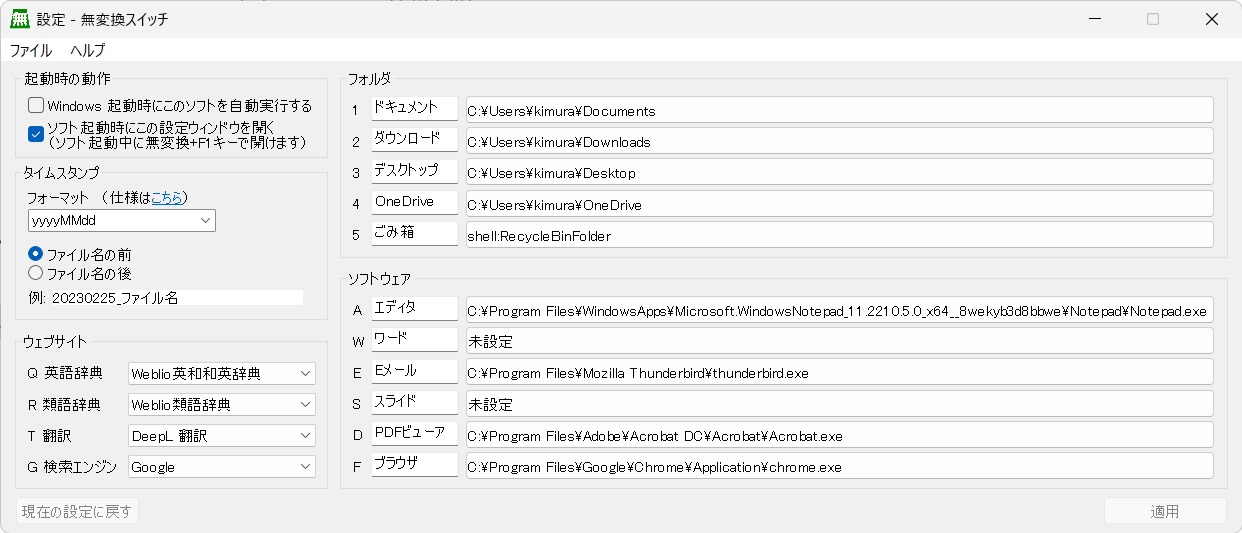
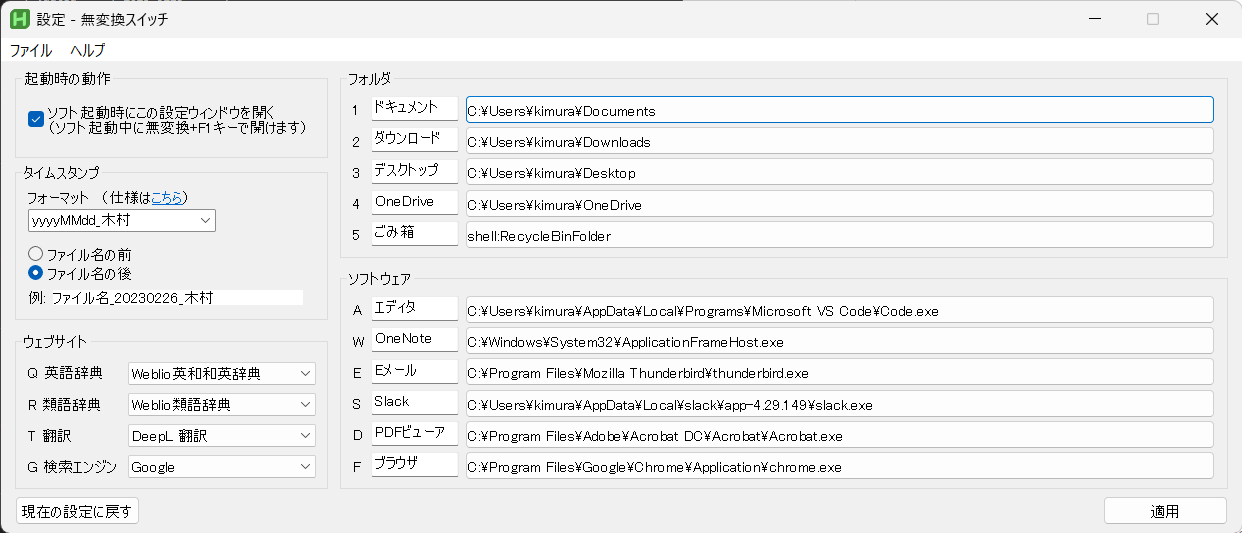
DEL autostart checkbox

diff --git a/README.html b/README.html
@@ -365,33 +365,25 @@ code {
           : 'default'
     });
   </script>
-<h1 id="muhenkan-switch">muhenkan-switch</h1>
+<h1 id="%E7%84%A1%E5%A4%89%E6%8F%9B%E3%82%B9%E3%82%A4%E3%83%83%E3%83%81">無変換スイッチ</h1>
 <p><code>無変換キー</code>と他のキーを同時押しすることで様々な動作ができるようになります。
 <code>無変換キー</code>単体は<code>無変換キー</code>として効きます。
 現状の機能を消すことなく、覚えやすさを重視してキーボードショートカットを配置しました。</p>
 <h2 id="%E3%82%A4%E3%83%B3%E3%82%B9%E3%83%88%E3%83%BC%E3%83%AB">インストール</h2>
 <ol>
-<li>GitHub のリリースからzip ファイルをダウンロード</li>
-<li>ユーザの書き込み権限があるところに展開<br>
-(例えばC:\Users\ユーザ名以下であればお好みのフォルダの中に入れられます。入れては行けない場所としてはC:\Program Files など。)</li>
-<li>muhenkan.exe を実行</li>
+<li><a href="https://github.com/kimushun1101/muhenkan-switch/releases">GitHub のリリース</a>から<code>muhenkan-switch.zip</code> をダウンロード。</li>
+<li>ユーザの書き込み権限があるところに展開。<br>
+(例えば<code>C:\Users\ユーザ名</code> 以下であればお好みのフォルダの中に入れられます。入れては行けない場所としては<code>C:\Program Files</code> 以下など。)</li>
+<li><code>muhenkan.exe</code> を実行。設定画面を閉じた後もソフトバックグラウンドで実行され続けます。終了は<a href="#%E8%A8%AD%E5%AE%9A%E5%A4%89%E6%9B%B4">設定画面</a>から可能です。</li>
 </ol>
-<h2 id="%E3%81%A7%E3%81%8D%E3%82%8B%E3%81%93%E3%81%A8">できること</h2>
+<h2 id="%E4%BD%BF%E3%81%84%E6%96%B9">使い方</h2>
+<p>初期設定は以下の通りです。</p>
 <p><img src="img/keyboard.png" alt="キーボードショートカット"></p>
 <ul>
-<li>(緑)<code>無変換キー</code>+<code>F1キー</code> : <a href="#%E8%A8%AD%E5%AE%9A%E5%A4%89%E6%9B%B4">設定の変更</a> を行うウィンドウを表示</li>
-<li>(青)<code>無変換キー</code>+<code>右手</code>（両手がホームポジションにあることを想定）
-<ul>
-<li><code>H</code>, <code>J</code>, <code>K</code>, <code>L</code>: 1文字カーソル移動</li>
-<li><code>U</code>, <code>I</code>: 単語で左右カーソル移動</li>
-<li><code>Y</code>, <code>O</code>: Home、End カーソル移動</li>
-<li><code>N</code>, <code>M</code>, <code>;</code> BackSpace, Delete, Esc</li>
-<li><code>,</code>, <code>.</code> カンマピリオドで句読点(、, 。) を入力（IMEで<code>．</code>と<code>，</code>にセットしている人は助かるかも）</li>
-</ul>
-</li>
 <li><code>無変換キー</code>+<code>左手</code>（右手はマウスを操作していることを想定）
 <ul>
-<li>(黄)数字キー→エクスプローラーでフォルダを開く <em><strong><a href="#%E8%A8%AD%E5%AE%9A%E5%A4%89%E6%9B%B4">【設定変更可能】</a></strong></em>
+<li>(緑) <code>F1</code>: <a href="#%E8%A8%AD%E5%AE%9A%E5%A4%89%E6%9B%B4">設定の変更</a> を行うウィンドウを表示</li>
+<li>(黄) 数字キー→エクスプローラーでフォルダを開く
 <ul>
 <li><code>1</code>: ドキュメント</li>
 <li><code>2</code>: ダウンロード</li>
@@ -400,7 +392,7 @@ code {
 <li><code>5</code>: ごみ箱</li>
 </ul>
 </li>
-<li>(橙)左手上段→選択文字列を検索 <em><strong><a href="#%E8%A8%AD%E5%AE%9A%E5%A4%89%E6%9B%B4">【サイトは変更可能】</a></strong></em>
+<li>(橙) 左手上段→選択文字列を検索
 <ul>
 <li><code>Q</code>: 英単語検索</li>
 <li><code>R</code>: 類語辞典</li>
@@ -408,7 +400,7 @@ code {
 <li><code>G</code>: Web 検索</li>
 </ul>
 </li>
-<li>(赤)左手中段→ソフトを最前面に出す <em><strong><a href="#%E8%A8%AD%E5%AE%9A%E5%A4%89%E6%9B%B4">【設定変更可能】</a></strong></em>
+<li>(赤) 左手中段→ソフトを最前面に出す
 <ul>
 <li><code>A</code>: エディタ</li>
 <li><code>W</code>: ワード</li>
@@ -418,7 +410,7 @@ code {
 <li><code>F</code>: ブラウザ</li>
 </ul>
 </li>
-<li>(紫)左手下段→ファイルの操作
+<li>(紫) 左手下段→ファイルの操作
 <ul>
 <li><code>V</code>: ファイル名に最後に編集した日付のタイムスタンプを貼り付け</li>
 <li><code>C</code>: コピーして、新しくできたファイルの名前に最後に編集した日付のタイムスタンプ貼り付け</li>
@@ -427,17 +419,26 @@ code {
 </li>
 </ul>
 </li>
+<li>(青) <code>無変換キー</code>+<code>右手</code>（両手がホームポジションにあることを想定）
+<ul>
+<li><code>H</code>, <code>J</code>, <code>K</code>, <code>L</code>: 1文字カーソル移動</li>
+<li><code>U</code>, <code>I</code>: 単語で左右カーソル移動</li>
+<li><code>Y</code>, <code>O</code>: Home、End カーソル移動</li>
+<li><code>N</code>, <code>M</code>, <code>;</code> BackSpace, Delete, Esc</li>
+<li><code>,</code>, <code>.</code> カンマピリオドで句読点(、, 。) を入力（IMEで<code>．</code>と<code>，</code>にセットしている人は助かるかも）</li>
+</ul>
+</li>
 <li>上記のルールから外れるもの
 <ul>
 <li><code>Ctrl</code> + <code>Shift</code> + <code>V</code> : 書式なしで貼り付け（エディタソフトは除く）</li>
-<li>下表に示すタイピング後にEnter やSpace キーを押すとその文字が置換される</li>
+<li>下表に示す文字列入力後にEnter やSpace キーなどを押すとその文字が置換されます。</li>
 </ul>
 </li>
 </ul>
 <table>
 <thead>
 <tr>
-<th>タイピング</th>
+<th>入力文字列</th>
 <th>置換入力例</th>
 </tr>
 </thead>
@@ -478,9 +479,6 @@ code {
 <p><img src="img/activeapp.gif" alt="ソフトの切り替え"></p>
 <h2 id="%E3%82%AD%E3%83%BC%E3%81%AE%E8%A6%9A%E3%81%88%E6%96%B9">キーの覚え方</h2>
 <ul>
-<li>カーソル移動=<code>HJKL</code> はVim 準拠</li>
-<li>カーソル移動=<code>YUIO</code> はキーの位置と横移動の大きさを関連付けています。</li>
-<li>文字消去=<code>NM</code> は両方とも人差し指で操作する。位置関係はカーソルが動く方向に対応しています。</li>
 <li>Web サイトやソフトはおおよそ推測できる割当になっているかと思います。例外としては以下のとおりです。
 <ul>
 <li>英単語=<code>Q</code> はQuestion から連想します。</li>
@@ -489,13 +487,13 @@ code {
 </ul>
 </li>
 <li>タイムスタンプの操作=<code>XCV</code> は、切り取り、コピー、ペーストなどを連想して覚えてください。</li>
+<li>カーソル移動=<code>HJKL</code> はVim 準拠</li>
+<li>カーソル移動=<code>YUIO</code> はキーの位置と横移動の大きさを関連付けています。</li>
+<li>文字消去=<code>NM</code> は両方とも人差し指で操作する。位置関係はカーソルが動く方向に対応しています。</li>
 </ul>
 <h2 id="%E8%A8%AD%E5%AE%9A%E5%A4%89%E6%9B%B4">設定変更</h2>
 <p><img src="img/config.png" alt="設定画面"></p>
-<ol>
-<li><code>muhenkan.exe</code> を実行する。</li>
-<li><code>無変換キー</code>+<code>F1</code> で設定画面が開き、設定の確認と変更ができる。</li>
-</ol>
+<p><code>無変換キー</code>+<code>F1</code> で設定画面が開き、設定の確認と変更ができる。</p>
 <ul>
 <li>起動時の動作：チェックボックスにチェックを入れていると有効になります。</li>
 <li>タイムスタンプ：フォーマットと位置を編集できます。</li>
@@ -504,21 +502,18 @@ code {
 <li>ソフトウェア：テキストボックスは好みに合わせて変更可能です。ソフトをクリックすると、現在起動中のソフトの一覧がでて、そこから変更したいソフトを選ぶことができます。</li>
 <li>適用：現在表示している内容に設定を変更します。上記を変更しただけでは設定の反映はされません。</li>
 <li>現在の設定に戻す：設定画面上の変更をリセットして現在の設定項目に直します。</li>
-<li>メニューバーのファイル：バックアップの作成と読み込み、初期設定へ戻すことができます。またこのソフトの終了もここから行えます。設定画面を閉じただけでは、ソフトは終了されません。</li>
+<li>メニューバーのファイル：バックアップの作成と読み込み、初期設定へ戻すことができます。また、このソフトの終了もここから行えます。</li>
 <li>メニューバーのヘルプ：この説明を見ることができます。また、このソフトの最新版がリリースされているか確認できます。</li>
 </ul>
 <h2 id="%E3%82%A2%E3%83%B3%E3%82%A4%E3%82%B9%E3%83%88%E3%83%BC%E3%83%AB">アンイストール</h2>
 <ol>
-<li><code>無変換キー</code>+<code>F1 キー</code> から「Windows 起動時にこのソフトを自動実行する」のチェックを外す。</li>
-<li><code>無変換キー</code>+<code>F1 キー</code> のツールバーのファイル、終了からソフトを終了する。</li>
-<li>ダウンロードしたzip ファイルとそれを展開したフォルダを削除。</li>
+<li><code>無変換キー</code>+<code>F1</code> の設定画面からファイル→終了。ソフトがあるファイルを開くか聞かれるのではい（Yes）を選択。</li>
+<li>開いた場所をフォルダごと削除。</li>
 </ol>
 <hr>
 <h2 id="%E3%83%A9%E3%82%A4%E3%82%BB%E3%83%B3%E3%82%B9">ライセンス</h2>
-<p>公式のサンプルを参考にしているため、GNU GPLv2 とします。</p>
-<ul>
-<li>AutoHotKey : <a href="https://www.autohotkey.com/docs/v2/license.htm">https://www.autohotkey.com/docs/v2/license.htm</a></li>
-</ul>
+<p>公式のサンプルを参考にしているため、GNU GPLv2 とします。<br>
+AutoHotKey : <a href="https://www.autohotkey.com/docs/v2/license.htm">https://www.autohotkey.com/docs/v2/license.htm</a></p>
 
 </body>
 </html>

diff --git a/README.md b/README.md
@@ -1,32 +1,33 @@
-# muhenkan-switch
+# 無変換スイッチ
 
 `無変換キー`と他のキーを同時押しすることで様々な動作ができるようになります。
 `無変換キー`単体は`無変換キー`として効きます。
 現状の機能を消すことなく、覚えやすさを重視してキーボードショートカットを配置しました。
 
 ## インストール
-1. [GitHub のリリース](https://github.com/kimushun1101/muhenkan-switch/releases)からLatest の`muhenkan-switch.zip` をダウンロード。
+1. [GitHub のリリース](https://github.com/kimushun1101/muhenkan-switch/releases)から`muhenkan-switch.zip` をダウンロード。
 2. ユーザの書き込み権限があるところに展開。  
-(例えばC:\Users\ユーザ名以下であればお好みのフォルダの中に入れられます。入れては行けない場所としてはC:\Program Files など。)
-3. muhenkan.exe を実行。
+(例えば`C:\Users\ユーザ名` 以下であればお好みのフォルダの中に入れられます。入れては行けない場所としては`C:\Program Files` 以下など。)
+3. `muhenkan.exe` を実行。設定画面を閉じた後もソフトバックグラウンドで実行され続けます。終了は[設定画面](#設定変更)から可能です。
 
 ## 使い方
-![キーボードショートカット](img/keyboard.png) 
+初期設定は以下の通りです。
 
+![キーボードショートカット](img/keyboard.png) 
 - `無変換キー`+`左手`（右手はマウスを操作していることを想定）
   - (緑) `F1`: [設定の変更](#設定変更) を行うウィンドウを表示
-  - (黄) 数字キー→エクスプローラーでフォルダを開く ***[【設定変更可能】](#設定変更)***
+  - (黄) 数字キー→エクスプローラーでフォルダを開く
     - `1`: ドキュメント
     - `2`: ダウンロード
     - `3`: デスクトップ
     - `4`: OneDrive
     - `5`: ごみ箱
-  - (橙) 左手上段→選択文字列を検索 ***[【サイトは変更可能】](#設定変更)***
+  - (橙) 左手上段→選択文字列を検索
     - `Q`: 英単語検索
     - `R`: 類語辞典
     - `T`: 翻訳（Translator）
     - `G`: Web 検索
-  - (赤) 左手中段→ソフトを最前面に出す ***[【設定変更可能】](#設定変更)***
+  - (赤) 左手中段→ソフトを最前面に出す
     - `A`: エディタ
     - `W`: ワード
     - `E`: Eメール
@@ -45,9 +46,9 @@
   - `,`, `.` カンマピリオドで句読点(、, 。) を入力（IMEで`．`と`，`にセットしている人は助かるかも） 
 - 上記のルールから外れるもの
   - `Ctrl` + `Shift` + `V` : 書式なしで貼り付け（エディタソフトは除く）
-  - 下表に示すタイピング後にEnter やSpace キーを押すとその文字が置換される
+  - 下表に示す文字列入力後にEnter やSpace キーなどを押すとその文字が置換されます。
 
-| タイピング  | 置換入力例      | 
+| 入力文字列  | 置換入力例      | 
 | ---------- | -------------- | 
 | ;date      | 20230225       | 
 | ;dateu     | 2023_0225      | 
@@ -75,8 +76,8 @@
 
 ## 設定変更
 ![設定画面](img/config.png)
-1. `muhenkan.exe` を実行する。
-2. `無変換キー`+`F1` で設定画面が開き、設定の確認と変更ができる。
+
+`無変換キー`+`F1` で設定画面が開き、設定の確認と変更ができる。
 - 起動時の動作：チェックボックスにチェックを入れていると有効になります。
 - タイムスタンプ：フォーマットと位置を編集できます。
 - ウェブサイト：ドロップダウンリストから選択できます。好みのウェブサイトが選択肢にない場合には追加しますので教えてください。
@@ -84,15 +85,15 @@
 - ソフトウェア：テキストボックスは好みに合わせて変更可能です。ソフトをクリックすると、現在起動中のソフトの一覧がでて、そこから変更したいソフトを選ぶことができます。
 - 適用：現在表示している内容に設定を変更します。上記を変更しただけでは設定の反映はされません。
 - 現在の設定に戻す：設定画面上の変更をリセットして現在の設定項目に直します。
-- メニューバーのファイル：バックアップの作成と読み込み、初期設定へ戻すことができます。またこのソフトの終了もここから行えます。設定画面を閉じただけでは、ソフトは終了されません。
+- メニューバーのファイル：バックアップの作成と読み込み、初期設定へ戻すことができます。また、このソフトの終了もここから行えます。
 - メニューバーのヘルプ：この説明を見ることができます。また、このソフトの最新版がリリースされているか確認できます。
 
 ## アンイストール
-1. `uninstall.exe` を実行。
-2. `uninstall.exe` を含むフォルダごと削除。
+1. `無変換キー`+`F1` の設定画面からファイル→終了。ソフトがあるファイルを開くか聞かれるのではい（Yes）を選択。
+2. 開いた場所をフォルダごと削除。
 
 ---
 
 ## ライセンス
-公式のサンプルを参考にしているため、GNU GPLv2 とします。
-- AutoHotKey : [https://www.autohotkey.com/docs/v2/license.htm](https://www.autohotkey.com/docs/v2/license.htm)
+公式のサンプルを参考にしているため、GNU GPLv2 とします。  
+AutoHotKey : [https://www.autohotkey.com/docs/v2/license.htm](https://www.autohotkey.com/docs/v2/license.htm)
